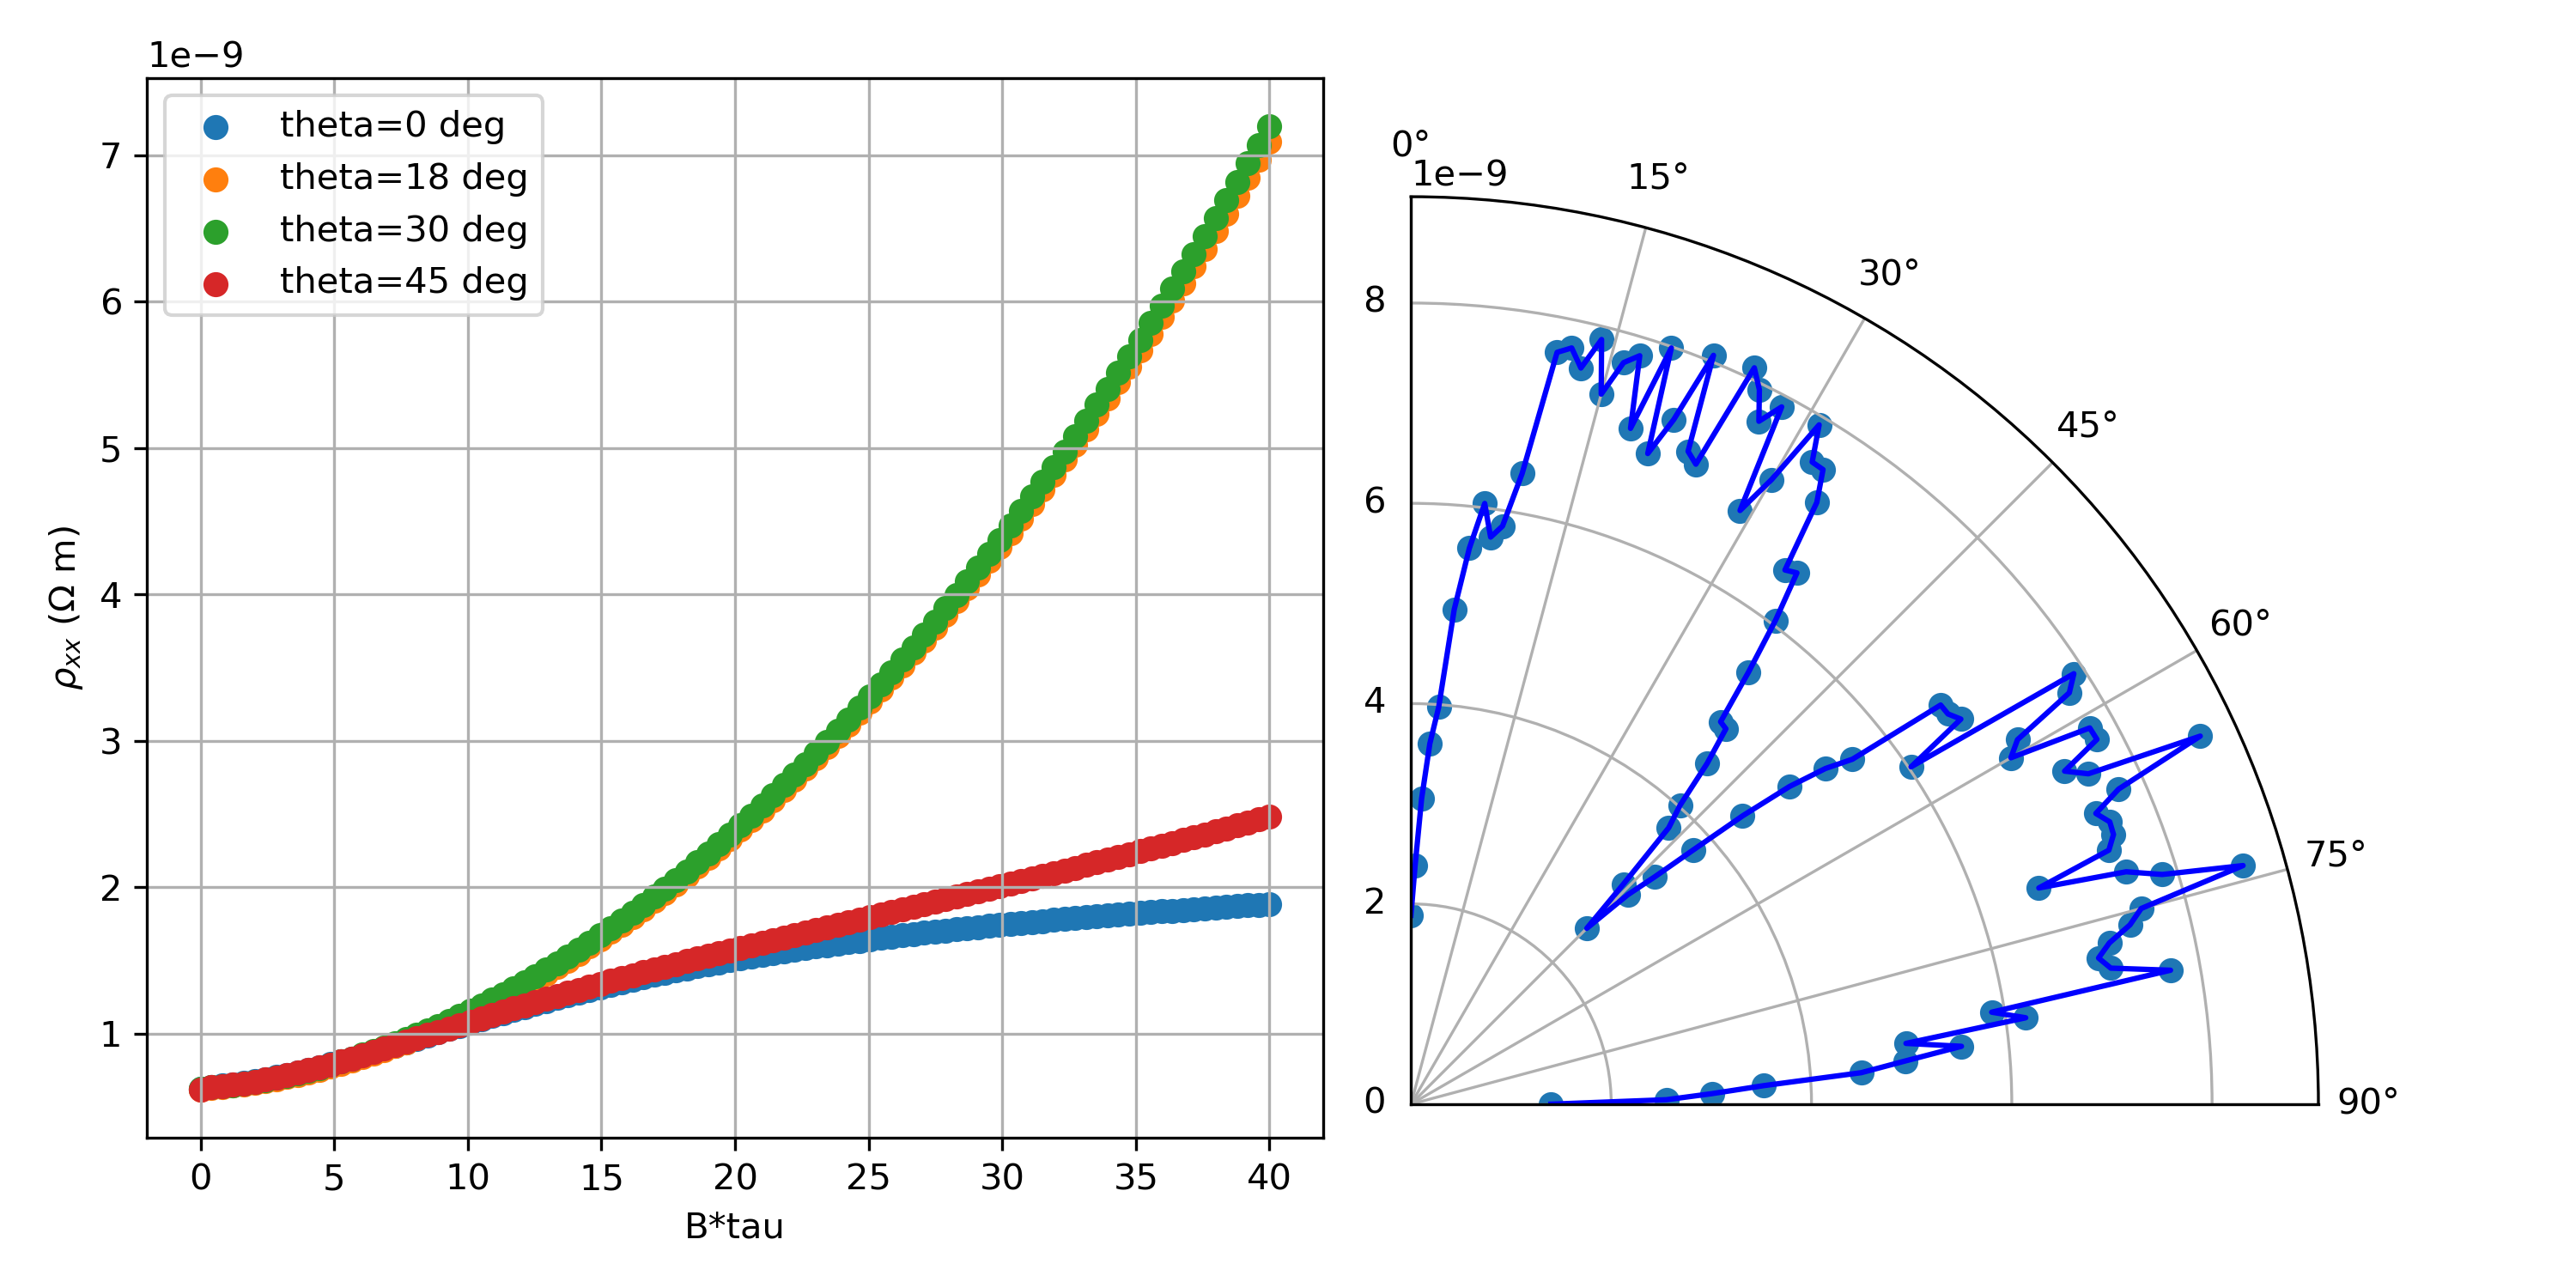
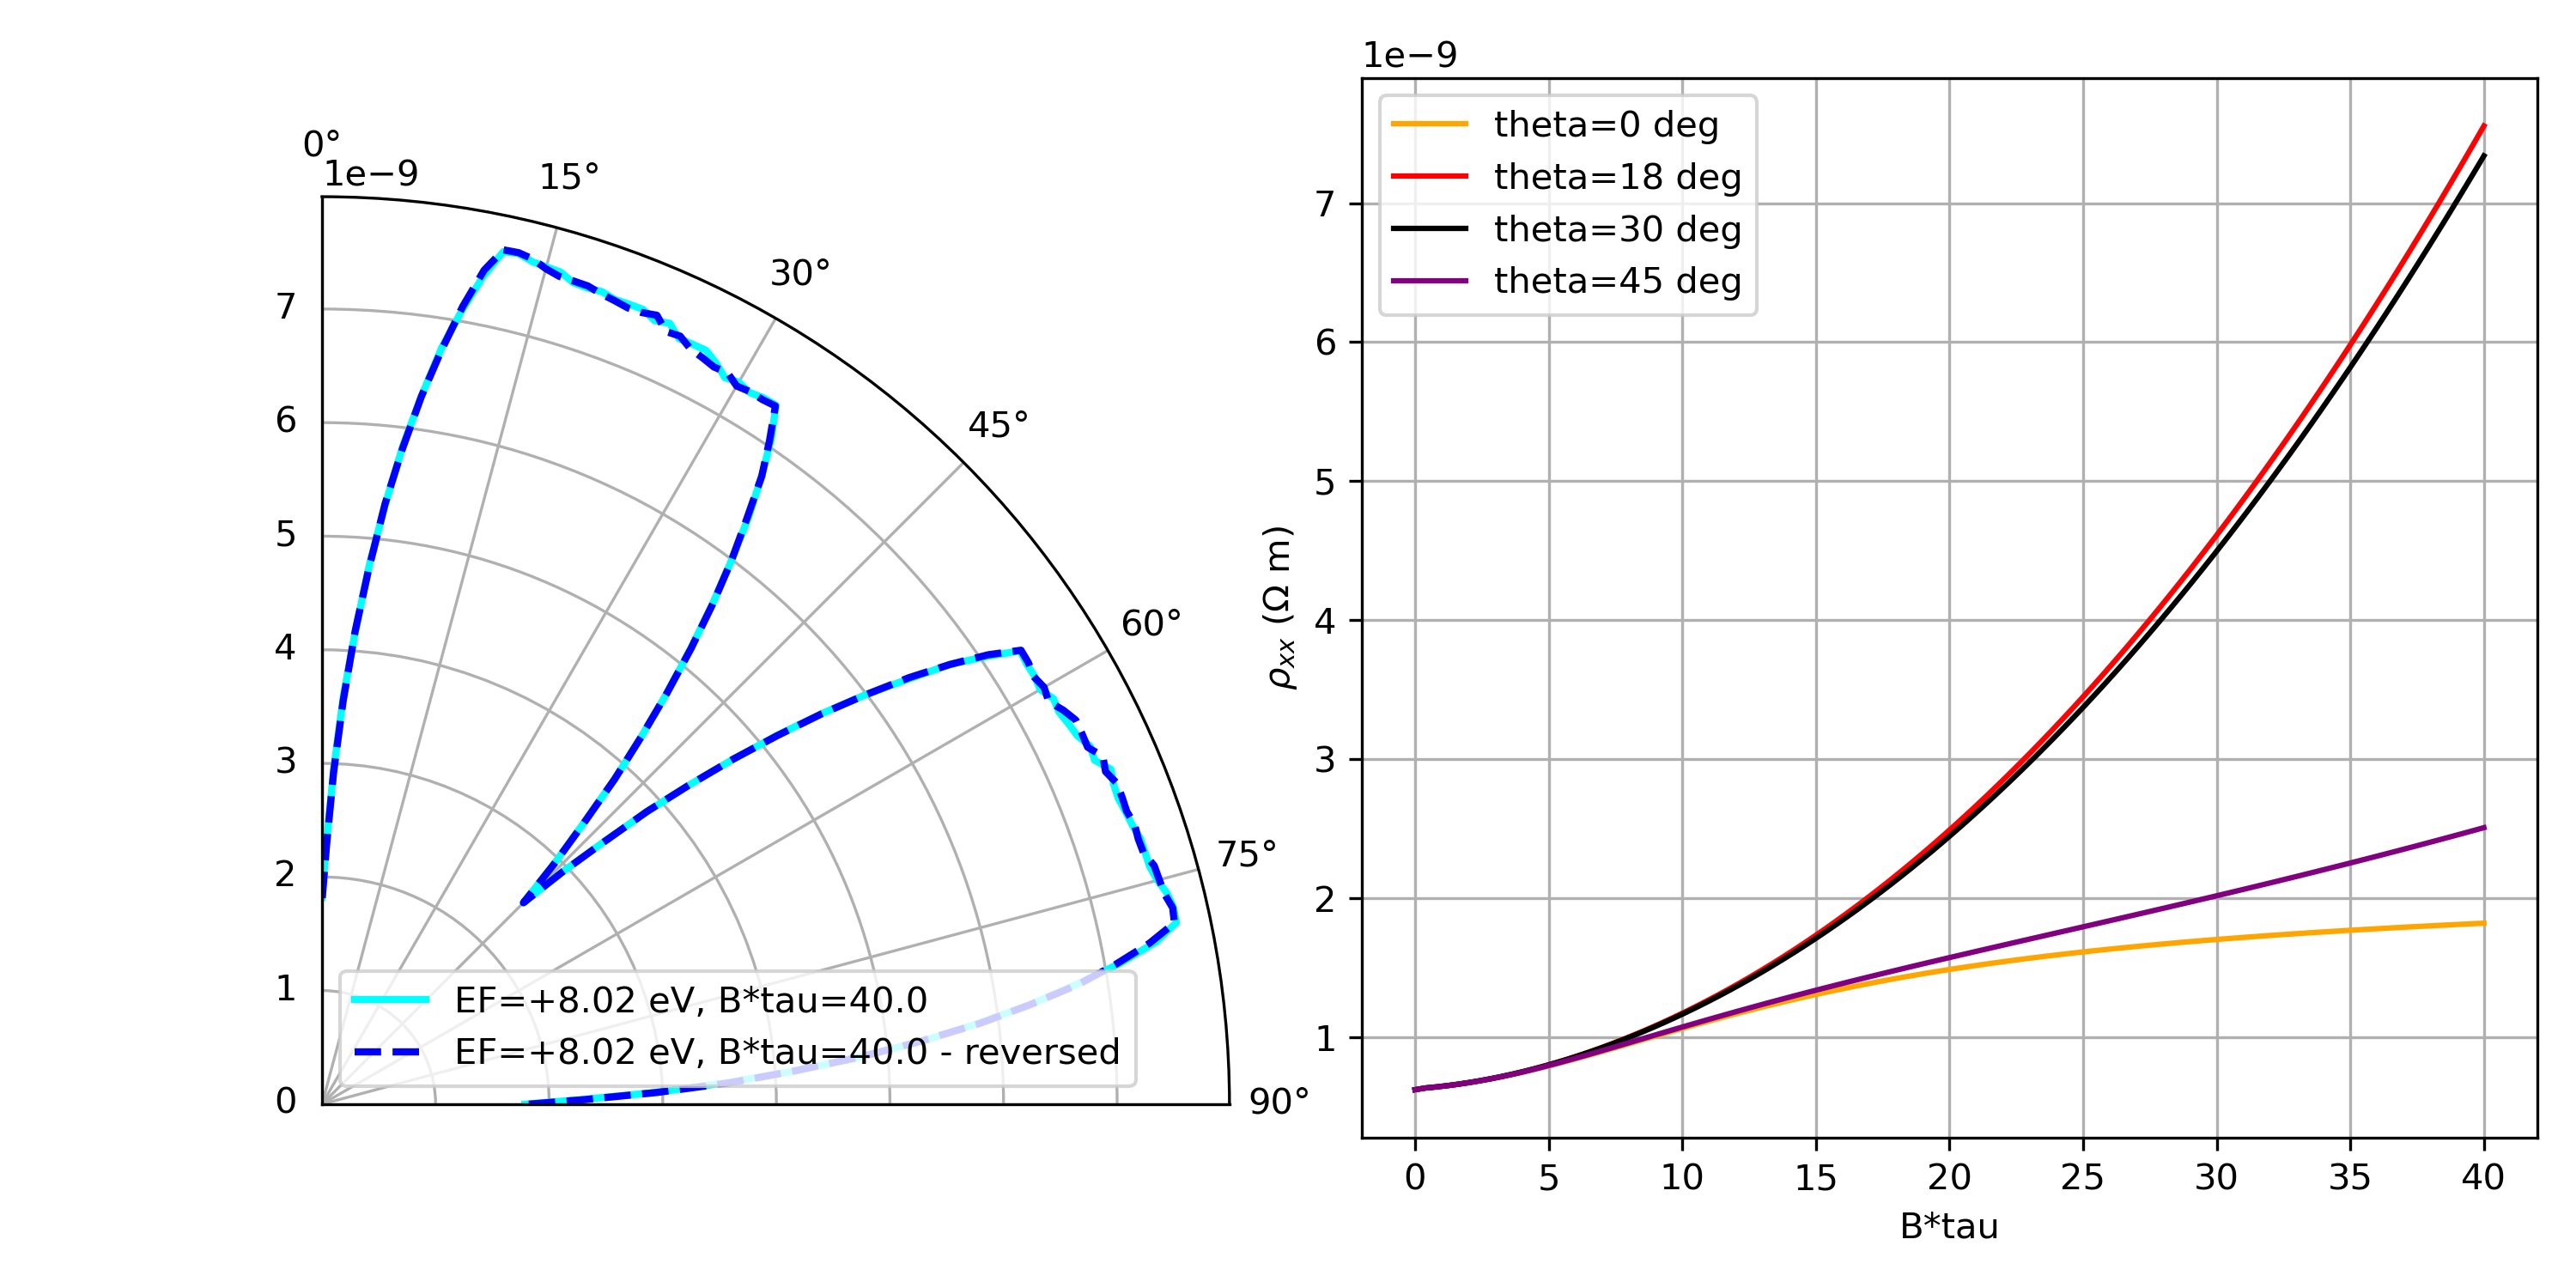
splitting ot pockets and connecting them

diff --git a/fermigrator/fermisurface.py b/fermigrator/fermisurface.py
@@ -4,7 +4,7 @@ import numpy as np
 from propcache import cached_property
 
 from fermigrator.get_fermi_surface import get_faces, get_shifts_2D, get_shifts_3D
-from wannierberri.utility import cached_einsum
+from .utility import cached_einsum, clear_cached
 from .trajectory import TrajectoryFinder
 # Note: There are three types of coordinates used:
 # * Cartesian "cart"
@@ -22,9 +22,9 @@ print(f"coef_Btau = {coef_Btau:.3e}")
 
 class FermiSurface:
 
-    keys = keys = ["energy", "recip_lattice", "triangles_reduced",
-                   "gradient_abs", "wavefunctions_center", "iband",
-                   "grid_size", "triangle_neighbours"]
+    keys = ["energy", "recip_lattice", "triangles_reduced",
+            "gradient_abs", "wavefunctions_center", "iband",
+            "grid_size", "triangle_neighbours", "is_connected"]
 
     def __init__(self,
                  energy,
@@ -34,7 +34,8 @@ class FermiSurface:
                  wavefunctions_center=None,
                  iband=None,
                  grid_size=None,
-                 triangle_neighbours=None
+                 triangle_neighbours=None,
+                 is_connected=False
                  ):
         self.energy = energy
         self.recip_lattice = recip_lattice
@@ -45,6 +46,7 @@ class FermiSurface:
         self.iband = iband
         self.grid_size = grid_size
         self.triangle_neighbours = triangle_neighbours
+        self.is_connected = is_connected
 
     @classmethod
     def from_file(cls, filename):
@@ -221,7 +223,7 @@ class FermiSurface:
             vbar[select_Btau_nonzero] += v_bar_period
 
             conductivity += weight * vn[None, :, None] * vbar[:, None, :]
-            if i % 100 == 0:
+            if i % 1000 == 0:
                 print(f"Processed {i} triangles out of {len(selected_triangles)}...")
         print(f"Processed {len(selected_triangles)} triangles, of which {cyclic_count} were cyclic.")
         conductivity *= sum(self.weights) / weight_sum
@@ -247,26 +249,26 @@ class FermiSurface:
         return (self.triangle_areas / self.gradient_abs) / (self.recip_volume)
 
     @classmethod
-    def from_grid(cls, energy_grid, reciprocal_lattice_vectors, fermi_level, iband=None,
+    def from_grid(cls, energy_grid, reciprocal_lattice, fermi_level, iband=None,
                   get_wf=False, system=None,
                   set_triangle_neighbours=False):
         if iband is not None:
             energy_grid = energy_grid[..., iband]
         dim = energy_grid.ndim
         energy_grid = energy_grid.copy() - fermi_level
-        assert reciprocal_lattice_vectors.shape == (dim, dim), f"reciprocal_lattice_vectors must be a {dim}x{dim} array, got shape {reciprocal_lattice_vectors.shape}"
+        assert reciprocal_lattice.shape == (dim, dim), f"reciprocal_lattice_vectors must be a {dim}x{dim} array, got shape {reciprocal_lattice.shape}"
         below_EF = (energy_grid < 0)
         grid_size = np.array(energy_grid.shape)
 
         if dim == 2:
-            shifts = get_shifts_2D(reciprocal_lattice_vectors)
+            shifts = get_shifts_2D(reciprocal_lattice)
         elif dim == 3:
             shifts = get_shifts_3D()
 
         res_list = [get_faces(energy_grid, shifts=sh, below_EF=below_EF, dim=dim) for sh in shifts]
         triangles_reduced = np.concatenate([res[0] for res in res_list], axis=0)
         gradient_reduced = np.concatenate([res[1] for res in res_list], axis=0)
-        gradient_cart = np.einsum('aj, kj -> ka', np.linalg.inv(reciprocal_lattice_vectors), gradient_reduced)
+        gradient_cart = np.einsum('aj, kj -> ka', np.linalg.inv(reciprocal_lattice), gradient_reduced)
         gradient_abs = np.linalg.norm(gradient_cart, axis=1)
 
         if get_wf:
@@ -279,7 +281,7 @@ class FermiSurface:
 
         obj = cls(
             energy=fermi_level,
-            recip_lattice=reciprocal_lattice_vectors,
+            recip_lattice=reciprocal_lattice,
             triangles_reduced=triangles_reduced,
             gradient_abs=gradient_abs,
             iband=iband,
@@ -361,6 +363,65 @@ class FermiSurface:
         if self.wavefunctions_center is None:
             self.wavefunctions_center = get_wavefunction_on_kpoints(system, self.kpoints, self.iband)
         return self.wavefunctions_center
+
+    def select_pocket_ids(self, triangle_start=0):
+        """Select a pocket of the Fermi surface starting from triangle ik_start"""
+        selected = set([triangle_start])
+        previous_group = [triangle_start]
+        while len(previous_group) > 0:
+            new_group = set.union(*[set(neighbours) for neighbours in self.triangle_neighbours[previous_group]]) - selected
+            selected.update(new_group)
+            previous_group = list(new_group)
+        return list(sorted(selected))
+
+    def to_pockets(self):
+        """Split the Fermi surface into pockets"""
+        pockets = []
+        while not self.is_empty:
+            pocket_ids = self.select_pocket_ids(triangle_start=0)
+            pocket_id_inv = {id: i for i, id in enumerate(pocket_ids)}
+            neighbours = np.array([[pocket_id_inv[i] for i in neighbours] for neighbours in self.triangle_neighbours[pocket_ids]])
+            pocket = FermiSurface(
+                energy=self.energy,
+                recip_lattice=self.recip_lattice,
+                triangles_reduced=self.triangles_reduced[pocket_ids],
+                gradient_abs=self.gradient_abs[pocket_ids],
+                wavefunctions_center=self.wavefunctions_center[pocket_ids] if self.wavefunctions_center is not None else None,
+                iband=self.iband,
+                grid_size=self.grid_size,
+                triangle_neighbours=neighbours
+            )
+            pockets.append(pocket)
+            print(f"Found pocket with {len(pocket_ids)} triangles, {self.num_triangles} triangles remaining.")
+            # remove the pocket from the Fermi surface
+            unselected = [i for i in range(self.num_triangles) if i not in pocket_ids]
+            unselected_inv = {id: i for i, id in enumerate(unselected)}
+
+            self.triangles_reduced = self.triangles_reduced[unselected]
+            self.gradient_abs = self.gradient_abs[unselected]
+            if self.wavefunctions_center is not None:
+                self.wavefunctions_center = self.wavefunctions_center[unselected]
+            if self.triangle_neighbours is not None:
+                self.triangle_neighbours = np.array([[unselected_inv[i] for i in neighbours] for neighbours in self.triangle_neighbours[unselected]])
+            clear_cached(self, ["triangles_centers_reduced", "basis_vectors_cart", "basis_vectors_reduced",
+                                "perpendicular", "basis_vectors_cart_3", "basis_vectors_reduced_3",
+                                "basis_vectors_cart_3_inv", "basis_vectors_reduced_3_inv", "triangle_areas", "weights", "gradient_cart"])
+        return pockets
+
+    def connect(self):
+        """to be applied to a connected pocket"""
+        checked = set([0])
+        previous_group = [0]
+        while len(previous_group) > 0:
+            new_group = set()
+            for triangle in previous_group:
+                for neighbour in self.triangle_neighbours[triangle]:
+                    if neighbour not in checked:
+                        shift = np.mean(self.triangles_reduced[neighbour] - self.triangles_reduced[triangle], axis=0)
+                        self.triangles_reduced[neighbour] -= np.round(shift)
+                        new_group.add(neighbour)
+            previous_group = list(new_group)
+            checked.update(new_group)
 
 
 def get_wavefunction_on_kpoints(system, kpoints, ibands, batch_size=20):

diff --git a/examples/copper/10.plot_MR.py b/examples/copper/10.plot_MR.py
@@ -3,21 +3,29 @@ import numpy as np
 
 
 figure, axes = plt.subplots(1, 2, sharex=True, sharey=False, figsize=(10, 5))
+axes[0], axes[1] = axes[1], axes[0]
+
 EF = [phone redacted]
 
-for theta_deg in 0, 18, 30, 45:
-    fname = f"magnetoconductivity_EF={EF:+.5f}_theta={theta_deg:d}.npz"
+
+def get_rhoxx(fname):
     data = np.load(fname)
     Btau_list = data['Btau_list']
     conductivity_tot = data['conductivity']
-    errorbar_tot = data['errorbar']
-    B_dir_cart = data['B_dir_cart']
-    B_dir_str = data['B_dir_str']
     # EF = data['EF']
     rho = np.linalg.inv(conductivity_tot)
     rhoxx = rho[:, 0, 0]
+    return Btau_list, rhoxx
 
-    axes[0].scatter(Btau_list, rhoxx, label=f"theta={theta_deg:d} deg")
+
+color_list = ['orange', 'red', 'black','purple']
+for theta_deg in [0, 18,30,45]:
+    fname = f"magnetoconductivity_EF={EF:+.5f}_theta={theta_deg:d}_50000.npz"
+    Btau_list, rhoxx = get_rhoxx(fname)
+    # EF = data['EF']
+    color = color_list.pop(0)
+    axes[0].plot(Btau_list, rhoxx, label=f"theta={theta_deg:d} deg", color=color)
+    
     # axes[1].plot(Btau_list, rhoxy, styles[EF], alpha=0.5, label=f"EF={EF:+.2f} eV")
 # plt.loglog()
 
@@ -26,20 +34,28 @@ Btau = 40
 
 theta_list = []
 rho_list = []
+theta_list_prec = []
+rho_list_prec = []
 for theta_deg in range(0, 91):
     try:
         fname = f"magnetoconductivity_EF={EF:+.5f}_theta={theta_deg:d}.npz"
-        data = np.load(fname)
-        Btau_list = data['Btau_list']
-        iBtau = np.argmin(np.abs(Btau_list - Btau))
-        conductivity = data['conductivity'][iBtau]
-        rho = np.linalg.inv(conductivity)
-        rhoxx = rho[0, 0]
+        Btau_list, rhoxx = get_rhoxx(fname)
+        i = np.argmin(np.abs(Btau_list - Btau))
         theta_list.append(theta_deg)
-        rho_list.append(rhoxx)  # Take the last value of rhoxx for each theta
+        rho_list.append(rhoxx[i])  # Take the value of rhoxx at the closest Btau for each theta
     except FileNotFoundError:
         print(f"File not found for theta={theta_deg} degrees. Skipping.")
         continue
+    try:
+        fname = f"magnetoconductivity_EF={EF:+.5f}_theta={theta_deg:d}_50000.npz"
+        Btau_list, rhoxx = get_rhoxx(fname)
+        i = np.argmin(np.abs(Btau_list - Btau))
+        theta_list_prec.append(theta_deg)
+        rho_list_prec.append(rhoxx[i])  # Take the value of rhoxx at the closest Btau for each theta
+    except FileNotFoundError:
+        print(f"File not found for theta={theta_deg} degrees. Skipping.")
+        continue
+    
 
 pos = axes[1].get_position()
 figure.delaxes(axes[1])
@@ -48,8 +64,10 @@ ax = figure.add_axes(pos, projection='polar')
 
 
 # Convert degrees to radians
-ax.scatter(np.deg2rad(theta_list), rho_list)
-ax.plot(np.deg2rad(theta_list), rho_list, label=f"EF={EF:+.2f} eV, B*tau={Btau:.1f}", color='blue')
+# ax.scatter(np.deg2rad(theta_list), rho_list)
+# ax.plot(np.deg2rad(theta_list), rho_list, label=f"EF={EF:+.2f} eV, B*tau={Btau:.1f}", color='blue')
+ax.plot(np.deg2rad(theta_list_prec), rho_list_prec, label=f"EF={EF:+.2f} eV, B*tau={Btau:.1f}" , color='cyan', linewidth=2)
+ax.plot(np.pi/2-np.deg2rad(theta_list_prec), rho_list_prec, label=f"EF={EF:+.2f} eV, B*tau={Btau:.1f} - reversed" , color='blue', linewidth=2, ls='--')
 
 # 0° at the top
 ax.set_theta_zero_location('N')
@@ -57,6 +75,7 @@ ax.set_theta_zero_location('N')
 # Angles increase clockwise
 ax.set_theta_direction(-1)
 ax.set_thetalim(0, np.pi / 2)
+ax.legend()
 
 
 axes[0].set_xlabel("B*tau")
@@ -66,7 +85,6 @@ axes[0].grid()
 # axes[1].set_xlabel("B*tau")
 # axes[1].set_ylabel(r"$\rho_{xy}$ ($\Omega$ m)")
 # axes[1].set_title(f"Hall resistivity, EF={EF:.2f} eV, B_dir={B_dir_str}")
-# axes[1].legend()
 # axes[1].grid()
 plt.tight_layout()
 plt.savefig("MR.png", dpi=300)

diff --git a/examples/copper/8.magnetocond.py b/examples/copper/8.magnetocond.py
@@ -1,14 +1,25 @@
+import os
+
 from fermigrator.fermisurface import FermiSurface
 import numpy as np
+from sys import argv
 
 
+theta_start = int(argv[1]) 
+theta_step = int(argv[2]) 
 for EF in 8.01636, :
-    for theta_deg in range(0, 91):
+    for theta_deg in range(theta_start, 91,theta_step):
+        print (f"Processing EF={EF}, theta={theta_deg} degrees...")
+        B_dir_str = f"theta={theta_deg:d}"
+        fname = f"magnetoconductivity_EF={EF:+.5f}_{B_dir_str}_50000.npz"
+        if os.path.exists(fname):
+            print(f"skipping theta={theta_deg} degrees because it has already been processed.")
+            continue
         theta = np.deg2rad(theta_deg)
         Btau_list = np.linspace(0.0, 40, 100)
         B_dir_cart = np.array([0, np.sin(theta), np.cos(theta)])
 
-        B_dir_str = f"theta={theta_deg:d}"
+        
 
         conductivity_tot = np.zeros((len(Btau_list), 3, 3))
         errorbar_tot_sq = np.zeros((len(Btau_list), 3, 3))
@@ -20,12 +31,12 @@ for EF in 8.01636, :
             print(f"Fermi surface of band {ib} has {fs.num_triangles} ")
             conductivity, errorbar = fs.get_magnetoconductivity_batch(B_dir_cart=B_dir_cart,
                                                                       Btau_list=Btau_list,
-                                                                      num_samples=5000)
+                                                                      num_samples=50000)
             conductivity_tot += conductivity
             errorbar_tot_sq += errorbar**2
         errorbar_tot = np.sqrt(errorbar_tot_sq)
 
-        np.savez(f"magnetoconductivity_EF={EF:+.5f}_{B_dir_str}.npz",
+        np.savez(fname,
                  Btau_list=Btau_list,
                  conductivity=conductivity_tot,
                  errorbar=errorbar_tot,

diff --git a/examples/pockets/1.calc_contours.py b/examples/pockets/1.calc_contours.py
@@ -1,0 +1,17 @@
+import numpy as np
+from fermigrator.fermisurface import FermiSurface
+NK = 20
+kx = np.linspace(0, 1, NK) * 2 * np.pi
+ky = np.linspace(0, 1, NK) * 2 * np.pi
+kz = np.linspace(0, 1, NK) * 2 * np.pi
+
+energy = 2.5 - np.cos(2 * kx[:, None, None]) + np.cos(ky[None, :, None]) + np.cos(kz[None, None, :])
+
+rec_lattice = np.eye(3) * 2 * np.pi
+fs = FermiSurface.from_grid(energy, reciprocal_lattice=rec_lattice, fermi_level=0.0, set_triangle_neighbours=True)
+# fs.plot()
+pockets = fs.to_pockets()
+for p in pockets:
+    p.connect()
+pockets[0].plot()
+pockets[1].plot()